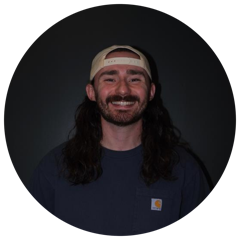
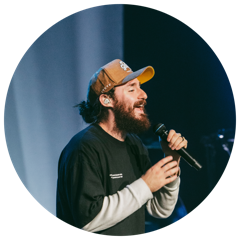
profile pics and new dates

diff --git a/index.html b/index.html
@@ -72,6 +72,10 @@ main{max-width:1600px;margin:0 auto;padding:34px 32px 72px;flex:1 0 auto;width:1
 .day-tile .day-btn{width:100%}
 .day-tile-del{position:absolute;top:8px;right:8px;z-index:2;background:var(--white);color:var(--gray-b);border:1px solid var(--ink-12);border-radius:999px;width:26px;height:26px;line-height:1;display:flex;align-items:center;justify-content:center;font-size:17px}
 .day-tile-del:hover{color:var(--white);background:var(--red);border-color:var(--red)}
+.day-tile-reorder{position:absolute;top:8px;left:8px;z-index:2;display:flex;flex-direction:column;gap:3px}
+.day-tile-reorder button{background:var(--white);color:var(--gray-b);border:1px solid var(--ink-12);border-radius:999px;width:22px;height:22px;line-height:1;display:flex;align-items:center;justify-content:center;font-size:11px;padding:0;cursor:pointer}
+.day-tile-reorder button:hover:not(:disabled){color:var(--white);background:var(--ink)}
+.day-tile-reorder button:disabled{opacity:.3;cursor:default}
 .day-avatar{position:absolute;top:8px;right:8px;width:62px;height:62px;border-radius:50%;object-fit:cover;box-shadow:0 1px 3px rgba(0,0,0,.25);z-index:1}
 .day-tile:has(.day-tile-del) .day-avatar{right:44px}
 .day-detail{border:1px solid var(--ink-12);max-width:900px}
@@ -359,7 +363,7 @@ function renderHeader(){
   if(EDIT){h.innerHTML='<span id="saveState">Saved</span><button class="btn btn-ghost" onclick="publishNow()">Save Now</button><button class="btn btn-ghost" onclick="signOut()">Lock</button>';}
   else{h.innerHTML='<span class="view-badge">View Only</span>';}
 }
-const COMM_PHOTOS=['caleb.png','jeff r.png','jonesy.png','jonny.png','jordan.png','josh.png','ronnie.png','sarai.png','shane.png','trevor.png','tyler.png'];
+const COMM_PHOTOS=['caleb.png','emily.png','jeff r.png','jonesy.png','jonny.png','jordan.png','josh.png','ronnie.png','sarah.png','sarai.png','shane.png','trevor.png','tyler.png'];
 const COMM_ALIASES={hunter:'jonesy.png'};
 function communicatorPhoto(who){
   if(!who)return null;
@@ -392,6 +396,13 @@ function renderContent(){
       const del=document.createElement('button');del.type='button';del.className='day-tile-del';del.title='Delete this day';del.setAttribute('aria-label','Delete this day');del.textContent='×';
       del.onclick=e=>{e.stopPropagation();deleteDay(i)};
       tile.appendChild(del);
+      const reorder=document.createElement('div');reorder.className='day-tile-reorder';
+      const up=document.createElement('button');up.type='button';up.title='Move earlier';up.setAttribute('aria-label','Move earlier');up.textContent='▲';up.disabled=visible.indexOf(i)===0;
+      up.onclick=e=>{e.stopPropagation();moveDay(i,-1)};
+      const down=document.createElement('button');down.type='button';down.title='Move later';down.setAttribute('aria-label','Move later');down.textContent='▼';down.disabled=visible.indexOf(i)===visible.length-1;
+      down.onclick=e=>{e.stopPropagation();moveDay(i,1)};
+      reorder.appendChild(up);reorder.appendChild(down);
+      tile.appendChild(reorder);
     }
     board.appendChild(tile);
   });
@@ -459,6 +470,7 @@ function openDay(i){openIdx=i;renderContent();window.scrollTo(0,0)}
 function closeDay(){openIdx=null;renderContent()}
 function addDay(){DATA.days.push({date:'',who:'',series:'',graphic:'',body:'',files:[]});openIdx=DATA.days.length-1;renderContent();queue();const el=document.querySelector('.day-date');if(el)el.focus()}
 function deleteDay(i){if(!confirm('Remove "'+(DATA.days[i].date||'this day')+'"?'))return;DATA.days.splice(i,1);openIdx=null;renderContent();queue()}
+function moveDay(i,dir){const j=i+dir;if(j<0||j>=DATA.days.length)return;const t=DATA.days[i];DATA.days[i]=DATA.days[j];DATA.days[j]=t;renderContent();queue()}
 function addCard(){DATA.guide.push({title:'New Section',html:'',full:false,collapsible:false});renderGuide();queue()}
 function deleteCard(i){if(!confirm('Delete "'+(DATA.guide[i].title||'this section')+'"?'))return;DATA.guide.splice(i,1);renderGuide();queue()}
 function toggleFull(i){DATA.guide[i].full=!DATA.guide[i].full;renderGuide();queue()}
